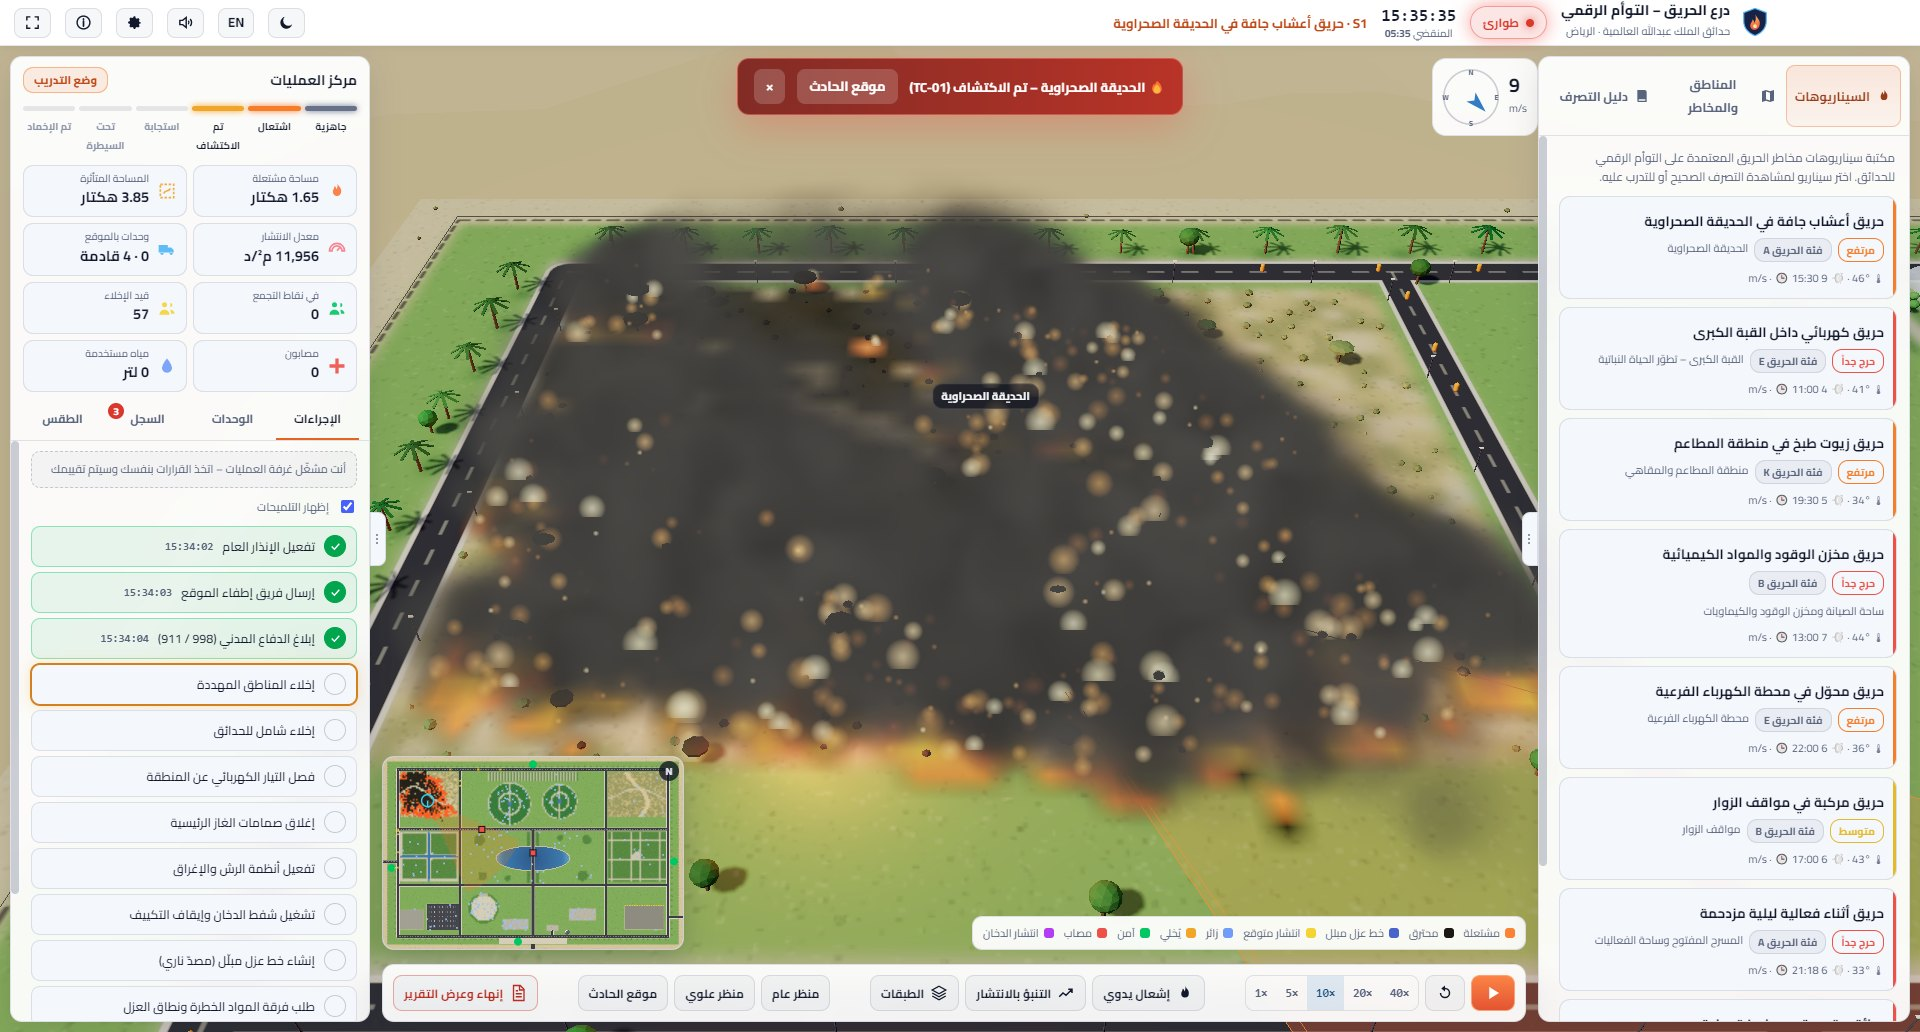
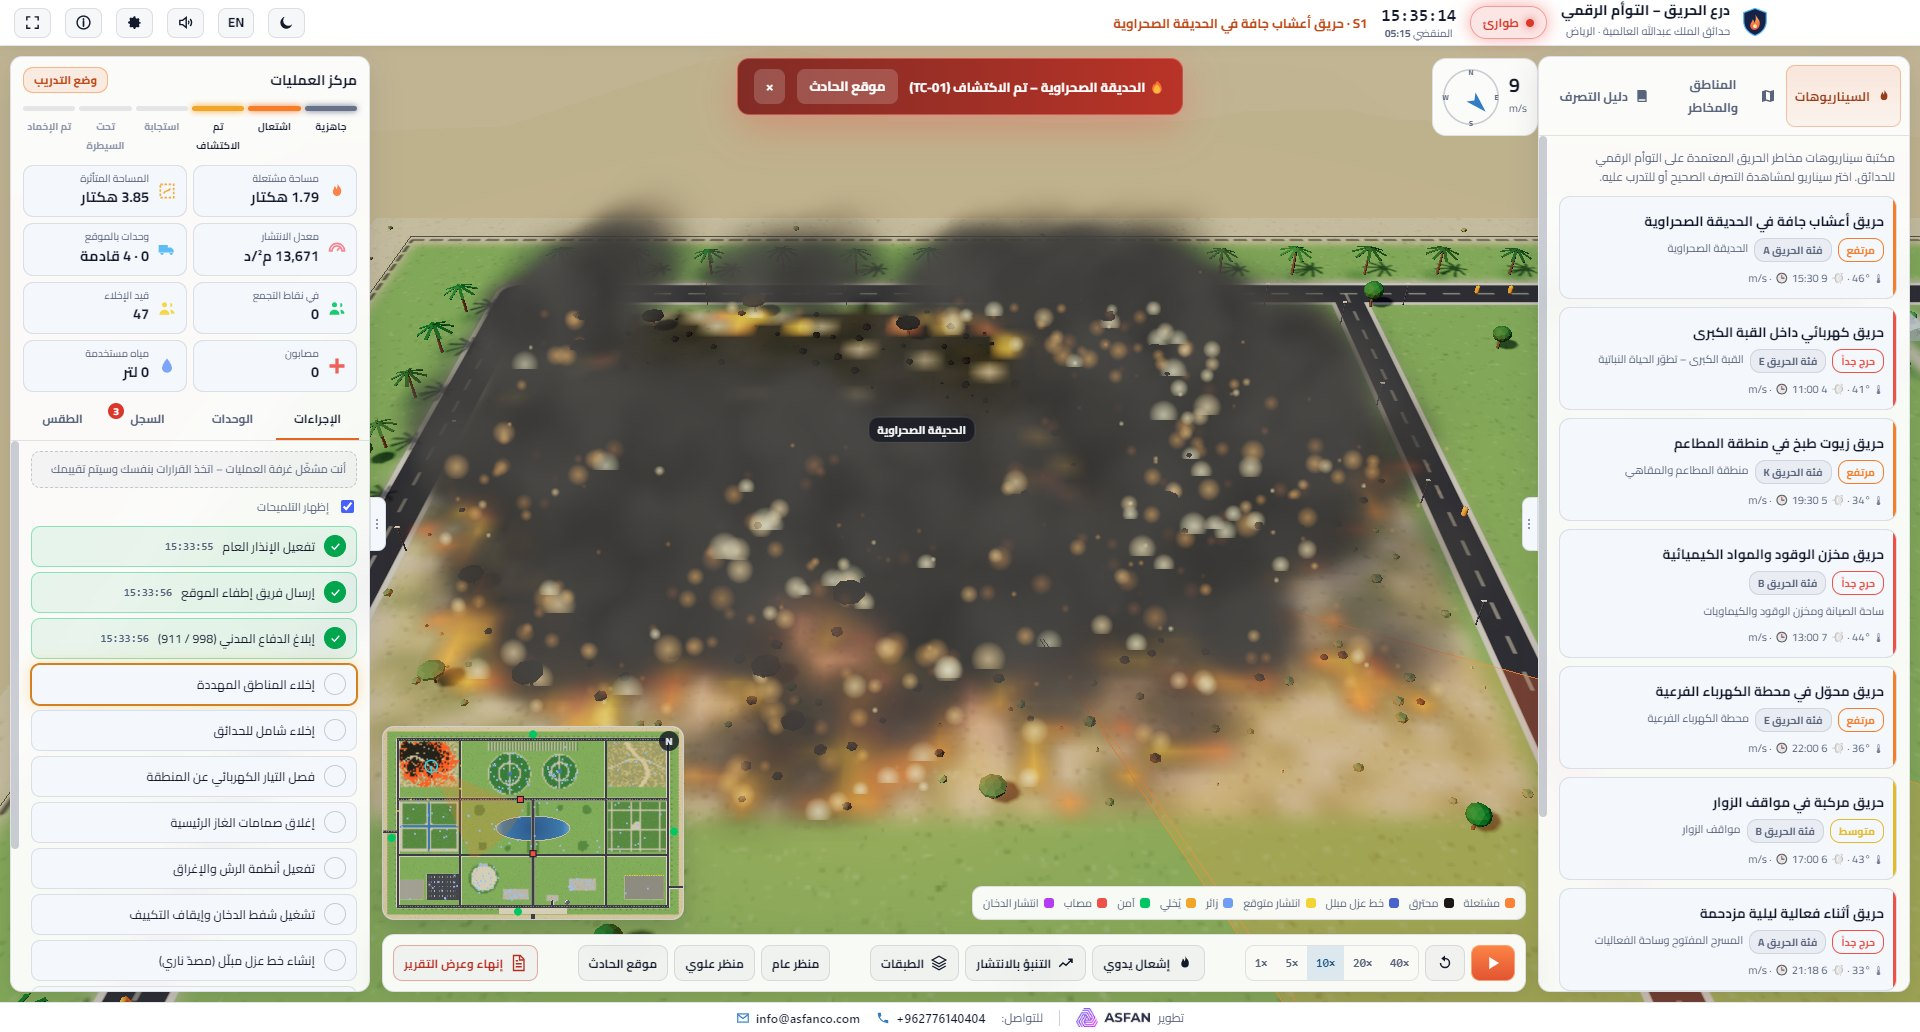
Update screenshots and add contact details

Changed region(s): [[0.0, 0.186, 1.0, 1.0], [0.9688, 0.2171, 1.0, 0.3411], [0.0, 0.7752, 0.0312, 0.8992]]

diff --git a/README.md b/README.md
@@ -28,7 +28,16 @@
 
 > **ملاحظة:** إذا ظهر تحذير Windows SmartScreen عند أول تشغيل، اختر «مزيد من المعلومات» ثم «تشغيل على أي حال».
 
-![عناصر المشهد](docs/screen.jpg)
+![الشاشة الرئيسية](docs/screen.jpg)
+
+## 📞 للتواصل
+
+<img src="docs/asfan-logo.png" alt="ASFAN" height="40">
+
+| | |
+|---|---|
+| الهاتف | <span dir="ltr">**+962776140404**</span> |
+| البريد الإلكتروني | [**info@asfanco.com**](mailto:info@asfanco.com) |
 
 </div>
 
@@ -47,5 +56,10 @@ A 3D digital twin of **King Abdullah International Gardens**, Riyadh, for fire-r
 **Requirements:** Windows 10/11 (64-bit), 8 GB RAM, a WebGL 2 graphics card, and a screen of 1600×900 or larger. No internet connection needed.
 
 If Windows SmartScreen warns you on first launch, choose "More info" and then "Run anyway".
+
+### Contact
+
+- Phone: **+962776140404**
+- Email: [info@asfanco.com](mailto:info@asfanco.com)
 
 © 2026 ASFAN. All rights reserved.
